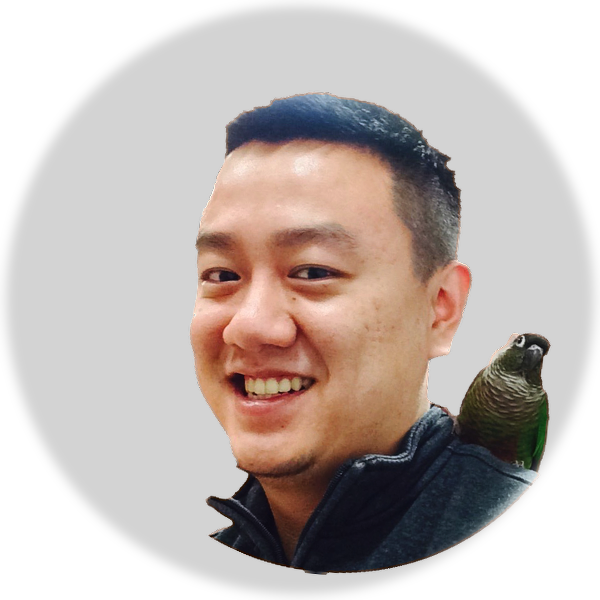
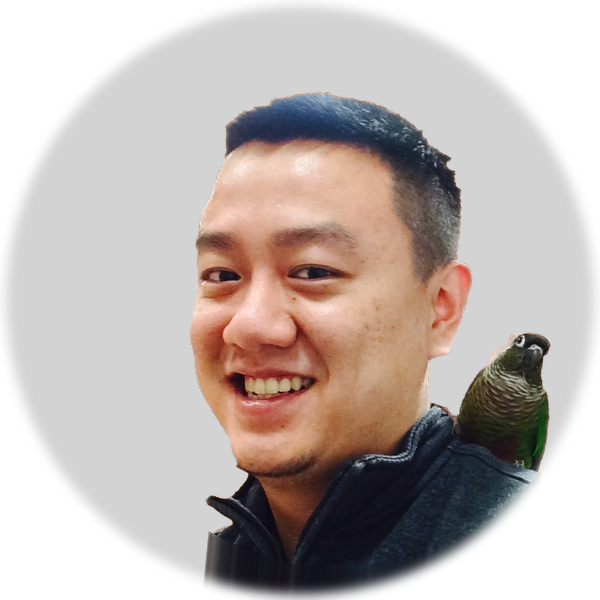
scripts: follow the cut where it curves, not just where it is flat
Di's right side was chopped off in an arc, and Johanna's the same. Both of their
originals are themselves round crops taken off an old version of the site --
671x671 and 1027x1024 with nothing outside the circle -- so what truncates them
is that arc, part-way up the frame, rather than any edge of the photo. Framing
then scales it into the disc as a curved bite out of one shoulder.

extend_below was written for the flat case and tested the bottom row of the
photo, which a circle barely occupies: Di's is 3% covered against a threshold of
20%, so he never qualified. That is why e3efa15 claimed to fix him and did not.
It now walks the subject's own lower outline and continues any column the photo
stops holding, which makes a rectangle's bottom row the flat special case of the
same rule rather than the only case it knows. Everyone the old gate covered
still qualifies; nothing silently stopped extending.

Two details the round sources forced, both of which the flat one got away with:

Read the continuing colour from a little way inside the cut, as a median, not
from the cut itself. Those pixels are the matte's own boundary and still carry
what was behind the subject -- on Di the orange wall -- which replicated into a
rust-brown band across his shirt. Start the fill a few pixels above the cut too,
or the same contaminated rows stay as a thread along the join.

Blur only the invented pixels. The flat version blurred a band and could afford
[…]

Changed region(s): [[0.33, 0.84, 0.87, 1.0]]

diff --git a/scripts/portraits.py b/scripts/portraits.py
@@ -126,15 +126,22 @@ LIGHTING_STRENGTH = 0.7   # apply only part of the correction
 
 MAX_ALIGN_ANGLE = 35.0  # beyond this the eye detection is more likely wrong than the head
 
-# Continuing a subject the photo cuts off at the bottom. The first is how much
-# of the bottom row the subject must occupy before it counts as cut off rather
-# than as a person who simply ends inside the frame; the second is how far the
-# shirt is carried on, as a fraction of the photo's height. Six tenths is well
-# past the bottom of the disc at any framing, so the join never shows.
+# Continuing a subject the photo cuts off below. The first is how much of the
+# subject's lower outline must lie along that edge before it counts as cut off
+# rather than as a person who simply ends inside the frame; the second is how
+# far the shirt is carried on, as a fraction of the photo's height. Six tenths
+# is well past the bottom of the disc at any framing, so the join never shows.
 TORSO_EDGE_FRACTION = 0.2
 TORSO_EXTEND = 0.6
 TORSO_BLUR = 0.06        # sideways blur at the far end, as a fraction of the width
 TORSO_BLUR_START = 0.55  # how much of that blur is already applied at the seam
+# How close to the photo's edge a column has to end before it counts as cut off,
+# as a fraction of the photo. Wide enough to survive MATTE_SHRINK and DEFRINGE,
+# which pull the cut-out a few pixels clear of the edge that truncated it.
+TORSO_EDGE_BAND = 0.015
+TORSO_MIN_DEPTH = 0.45   # a cut higher up the photo than this is not a torso
+TORSO_SAMPLE = 0.02      # how far above the cut the continuing colour is read from
+TORSO_SEAM = 0.008       # how far above the cut the fill starts, burying the matte edge
 
 # macOS resource forks and other dotfiles that are not really photos.
 IGNORED_PREFIXES = ("._", ".")
@@ -547,46 +554,117 @@ def detection_view(cut_out: Image.Image) -> Image.Image:
     return canvas.convert("RGB")
 
 
-def extend_below(cut_out: Image.Image) -> Image.Image:
-    """Carry the subject on downward when the photo cuts them off at the bottom.
+def photo_extent(image: Image.Image) -> np.ndarray:
+    """Where the photo actually holds a picture.
+
+    Everything for an ordinary photograph. Two of these sources are themselves
+    round crops taken off an old version of the site, and for those it is a disc
+    with nothing outside it -- which matters, because the edge that truncates
+    the subject is then that circle rather than the rectangle around it.
+    """
+    if image.mode not in ("RGBA", "LA", "P"):
+        return np.ones((image.height, image.width), dtype=bool)
+    return np.array(image.convert("RGBA"))[:, :, 3] > 128
+
+
+def extend_below(cut_out: Image.Image, extent: np.ndarray | None = None) -> Image.Image:
+    """Carry the subject on downward from wherever the photo stops holding them.
 
     A tight crop often ends part-way down the shirt. Framing then scales that
     edge into the middle of the disc, and because the eyes are levelled by
     rotating, the straight bottom of the photo lands as a diagonal slice across
-    the shoulders -- or, when the crop stops higher, as a band of empty
-    backdrop under the person. Replicating the last row downward carries the
-    shirt on instead.
+    the shoulders -- or, when the crop stops higher, as a band of empty backdrop
+    under the person. Continuing each column past the cut carries the shirt on
+    instead.
 
-    Only the bottom is extended. A torso really does continue out of frame,
-    whereas replicating the top would smear hair upward into the headroom the
-    framing is trying to leave, and replicating the sides would stretch a
-    shoulder sideways.
+    The cut is not always the bottom of the photo. Di's and Johanna's sources
+    are round crops, so what truncates them is the circle: their shoulders and
+    hair end along an arc part-way up the frame, which framing then delivers as
+    a curved bite out of one side. Following the subject's own lower outline
+    handles both, since a rectangle's bottom row is just the flat case of it.
+
+    Only downward. A torso really does continue out of frame, whereas
+    replicating the top would smear hair upward into the headroom the framing is
+    trying to leave, and replicating the sides would stretch a shoulder.
     """
-    alpha = np.array(cut_out.split()[-1])
-    if (alpha[-1, :] > 128).mean() < TORSO_EDGE_FRACTION:
-        return cut_out  # the photo already contains where the subject ends
+    arr = np.array(cut_out)
+    subject = arr[:, :, 3] > 128
+    height, width = subject.shape
+    if extent is None:
+        extent = np.ones_like(subject)
 
-    pad = max(1, round(cut_out.height * TORSO_EXTEND))
+    # The photo's own edge counts as a cut, so it has to be part of the rim.
+    # cv2.erode treats everything beyond the array as interior, which would hide
+    # exactly that -- and for a round source would hide the bottom of the circle,
+    # where it runs off the frame. Supplying a background border fixes both.
+    band = max(3, round(max(height, width) * TORSO_EDGE_BAND) | 1)
+    inner = cv2.erode(
+        extent.astype(np.uint8), np.ones((band, band), np.uint8),
+        borderType=cv2.BORDER_CONSTANT, borderValue=0,
+    ) > 0
+    rim = extent & ~inner
+
+    # Lowest subject pixel in each column, and whether the photo ran out there.
+    occupied = subject.any(axis=0)
+    lowest = np.where(occupied, height - 1 - subject[::-1].argmax(axis=0), -1)
+    columns = []
+    for x in range(width):
+        y = int(lowest[x])
+        if y < 0 or y < height * TORSO_MIN_DEPTH:
+            continue
+        if rim[max(0, y - band):y + band + 1, x].any():
+            columns.append((x, y))
+
+    # Same question the flat version asked, of the outline rather than of the
+    # bottom row: is the subject cut off, or do they simply end inside the photo?
+    if len(columns) < occupied.sum() * TORSO_EDGE_FRACTION:
+        return cut_out
+
+    pad = max(1, round(height * TORSO_EXTEND))
     # Padding only at the bottom leaves the origin alone, so the face box, eye
     # positions and crown measured above stay valid.
-    extended = cv2.copyMakeBorder(np.array(cut_out), 0, pad, 0, 0, cv2.BORDER_REPLICATE)
+    extended = cv2.copyMakeBorder(
+        arr, 0, pad, 0, 0, cv2.BORDER_CONSTANT, value=(0, 0, 0, 0)
+    )
+    filled = np.zeros(extended.shape[:2], dtype=bool)
+    depth = np.zeros(extended.shape[:2], dtype=np.float32)
 
-    # Replication alone draws every column straight down, which on a plain
-    # shirt passes for fabric but on a collar turns the V of skin into a stripe.
-    # Blurring it sideways, by more the further it goes, reads as cloth falling
-    # out of focus instead.
+    sample = max(2, round(height * TORSO_SAMPLE))
+    seam = max(1, round(height * TORSO_SEAM))
+    for x, y in columns:
+        # The pixels right on the cut are the worst ones to copy: they are the
+        # matte's own boundary and still carry what was behind the subject. On
+        # Di that is the orange wall, which continues as a rust-brown band. Read
+        # the colour from a little way inside instead, and take the median so a
+        # single edge pixel cannot set a whole column.
+        above = arr[max(0, y - sample):y + 1, x]
+        above = above[subject[max(0, y - sample):y + 1, x]]
+        if not len(above):
+            continue
+        colour = np.median(above, axis=0).astype(np.uint8)
+        colour[3] = 255
+        # Start just above the cut, so those same contaminated rows are covered
+        # rather than left as a thread along the join.
+        start = max(0, y - seam)
+        extended[start:, x] = colour
+        filled[start:, x] = True
+        depth[start:, x] = np.arange(extended.shape[0] - start, dtype=np.float32)
+
+    # Carrying a column straight down passes for fabric on a plain shirt but
+    # turns the V of an open collar into a stripe. Blurring sideways, by more
+    # the further it goes, reads as cloth falling out of focus instead.
     #
     # The ramp starts well above zero on purpose. Only the first inch or so of
     # the extension is ever inside the disc -- the rest is cropped away -- so a
     # ramp starting at zero blurs nothing anyone sees. Beginning part-blurred
-    # costs no visible seam, because the row being blurred is a copy of the row
-    # above it rather than a new edge.
-    height = cut_out.height
-    band = extended[height:]
-    kernel = max(3, int(cut_out.width * TORSO_BLUR) | 1)
-    blurred = cv2.blur(band, (kernel, 1))
-    ramp = np.linspace(TORSO_BLUR_START, 1.0, pad, dtype=np.float32)[:, None, None]
-    extended[height:] = (band * (1 - ramp) + blurred * ramp).astype(np.uint8)
+    # costs no visible seam, because what is being blurred is a flat colour.
+    kernel = max(3, int(width * TORSO_BLUR) | 1)
+    blurred = cv2.blur(extended, (kernel, 1))
+    ramp = TORSO_BLUR_START + (1 - TORSO_BLUR_START) * np.clip(depth / pad, 0, 1)
+    mixed = (extended * (1 - ramp[:, :, None]) + blurred * ramp[:, :, None]).astype(np.uint8)
+    # Only the invented pixels are touched; the photograph is left exactly as it
+    # was, which a blur applied to the whole band would not do.
+    extended[filled] = mixed[filled]
 
     return Image.fromarray(extended, "RGBA")
 
@@ -801,7 +879,7 @@ def make_portrait(
             route = "eyes (haar)"
 
     # After the head has been measured and before anything scales it.
-    cut_out = extend_below(cut_out)
+    cut_out = extend_below(cut_out, photo_extent(image))
 
     framed = frame_with_eyes(cut_out, face, eyes) if eyes else frame_on_face(cut_out, face)
     return lay_on_disc(framed, background), route

diff --git a/scripts/test_portraits.py b/scripts/test_portraits.py
@@ -191,15 +191,90 @@ def test_subject_that_ends_inside_the_frame_is_left_alone():
 
 
 def test_extending_does_not_move_anything_already_measured():
-    """Padding only the bottom keeps the origin, so face and eye coords hold."""
+    """Padding only the bottom keeps the origin, so face and eye coords hold.
+
+    The photograph itself is left alone apart from a few rows right at the cut,
+    which are painted over on purpose: they are the matte's own boundary and
+    still carry whatever was behind the subject.
+    """
     cut_out = torso(200, reaches_bottom=True)
 
     extended = portraits.extend_below(cut_out)
 
     assert extended.width == cut_out.width
-    original = np.asarray(cut_out)[: cut_out.height]
-    kept = np.asarray(extended)[: cut_out.height]
-    assert np.array_equal(original, kept)
+    seam = max(1, round(cut_out.height * portraits.TORSO_SEAM))
+    untouched = cut_out.height - seam - 1
+    assert np.array_equal(
+        np.asarray(cut_out)[:untouched], np.asarray(extended)[:untouched]
+    )
+
+
+def round_torso(size: int) -> tuple[Image.Image, np.ndarray]:
+    """A shirt cut off by a circular photo edge rather than a straight one.
+
+    Two of the sources are themselves round crops lifted off an old version of
+    the site, so what truncates the subject is an arc part-way up the frame.
+    """
+    extent = Image.new("L", (size, size), 0)
+    ImageDraw.Draw(extent).ellipse((0, 0, size - 1, size - 1), fill=255)
+    extent = np.asarray(extent) > 128
+
+    # Wide enough that the arc takes a real bite out of the shoulders, which is
+    # where it showed on the two round sources rather than at the centre.
+    image = Image.new("RGBA", (size, size), (0, 0, 0, 0))
+    ImageDraw.Draw(image).rectangle(
+        (int(size * 0.1), int(size * 0.3), int(size * 0.9), size - 1),
+        fill=(120, 40, 60, 255),
+    )
+    clipped = np.asarray(image).copy()
+    clipped[~extent] = 0
+    return Image.fromarray(clipped, "RGBA"), extent
+
+
+def test_a_subject_cut_off_by_a_curved_photo_edge_is_carried_on():
+    """The arc of a round source truncates the shirt as surely as a flat edge."""
+    cut_out, extent = round_torso(200)
+    shoulder = int(cut_out.width * 0.15)
+    before = np.asarray(cut_out)[:, :, 3]
+    # the arc really does end this column early, well above the frame
+    assert (before[:, shoulder] > 128).any()
+    assert not (before[int(cut_out.height * 0.9), shoulder] > 128)
+
+    extended = portraits.extend_below(cut_out, extent)
+
+    assert extended.height > cut_out.height
+    after = np.asarray(extended)[:, :, 3]
+    # it now runs unbroken from the shirt down past where the circle stopped
+    assert after[int(cut_out.height * 0.9), shoulder] > 128
+    assert after[cut_out.height + 10, shoulder] > 128
+
+
+def test_the_arc_is_filled_across_the_whole_shirt():
+    """A bite out of one shoulder is exactly what the round sources showed."""
+    cut_out, extent = round_torso(200)
+
+    extended = portraits.extend_below(cut_out, extent)
+
+    alpha = np.asarray(extended)[:, :, 3]
+    row = int(cut_out.height * 0.9)
+    shirt = slice(int(cut_out.width * 0.15), int(cut_out.width * 0.85))
+    assert (alpha[row, shirt] > 128).all()
+
+
+def test_a_round_source_whose_subject_stops_inside_the_circle_is_left_alone():
+    """Being round is not itself a reason to invent shirt."""
+    size = 200
+    extent = Image.new("L", (size, size), 0)
+    ImageDraw.Draw(extent).ellipse((0, 0, size - 1, size - 1), fill=255)
+    extent = np.asarray(extent) > 128
+
+    image = Image.new("RGBA", (size, size), (0, 0, 0, 0))
+    ImageDraw.Draw(image).rectangle(
+        (int(size * 0.35), int(size * 0.3), int(size * 0.65), int(size * 0.55)),
+        fill=(120, 40, 60, 255),
+    )
+
+    assert portraits.extend_below(image, extent).size == image.size
 
 
 # --- what the config records -------------------------------------------------
